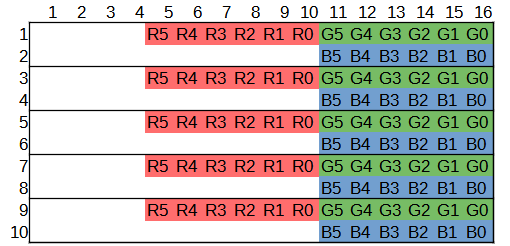
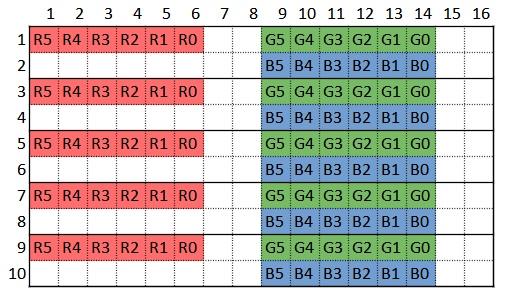
Change HUB75 pinmap, make RGB GPMC format fit to 24 bit RGB data

diff --git a/sw/opallios/opallios.c b/sw/opallios/opallios.c
@@ -61,8 +61,8 @@ int main(int argc, char *argv[])
 		
 		for (int i = 0; i < numPixels; i++)
 		{
-			(matrixData)[i*2] = (((uint8_t *)img.data)[i*4+1+currentFrame*numPixels*4] >> 2) << 8 | (((uint8_t *)img.data)[i*4+currentFrame*numPixels*4] >> 2);
-			(matrixData)[i*2+1] = (((uint8_t *)img.data)[i*4+2+currentFrame*numPixels*4] >> 2);
+			(matrixData)[i*2] = (((uint8_t *)img.data)[i*4+1+currentFrame*numPixels*4]) << 8 | (((uint8_t *)img.data)[i*4+currentFrame*numPixels*4]);
+			(matrixData)[i*2+1] = (((uint8_t *)img.data)[i*4+2+currentFrame*numPixels*4]);
 		}
 		currentFrame++;
 		if (currentFrame >= numFrames) currentFrame = 0;

diff --git a/Documentation/Description_Document.md b/Documentation/Description_Document.md
@@ -44,7 +44,7 @@ This project is to make a decorative RGB LED display. This will use a HUB75 inte
 
 3mm LED pitch, 192mmx192mm total size, 64x64 RGB LEDs.
 
-1/32 scan on a 64x64 grid array *probably* means that 2 rows of 64 are lit up at a time, indicates 2x 5-bit decoders for row decoding.
+1/32 scan on a 64x64 grid array means that 2 rows of 64 are lit up at a time, indicates 2x 5-bit decoders for row decoding.
 
 ## Power consumption:  
 
@@ -92,7 +92,7 @@ From 100MHz clock, will target 25MHz (divide by 4). Can go higher, but for anyth
 ### LED Matrix Frame Rate
 
 At 25MHz, clock period is 20ns.  
-The LED matrix functions as 2 separate halves, having 2 channels of rgb input data, and 2 rows of LEDs get illuminated at a time. Therefore for time calculations we can treat it as a 64x32 module.
+The LED matrix functions as 2 semi-separate halves, having 2 channels of rgb input data, and 2 rows of LEDs get illuminated at a time. Therefore for time calculations we can treat it as a 64x32 module.
 
 Because the LEDs are only on or off, I will be using binary coded modulation (BCM) to dim the brightness for the different values of our color.
 
@@ -126,14 +126,7 @@ To deal with these nasty refresh rate periods, there will be a frame rate timer 
 
 GPMC runs at 100MHz, so 10 ns clock period. GPMC has a 16-bit data bus, so assume one 16-bit register gets loaded in 1 clock cycle, and we are doing a continuous block write, so there should only be one start block of overhead.
 
-If tight packing is used, the 18 bytes of data are transferred in repeating blocks of 9 16-bit register writes, containing 8 sets of 18-bit LED RGB data. With this method, the full 73728 bit array data is sent in 512 blocks of 16 * 9 = 144 bits.  
-
-64 * 64 * 18 bits/LED = 73728 bits  
-73728/16 = 4608 clocks = 46080 ns  
-
-![Tight packed RGB data](./include/tight-packed-GPMC-data.png)
-
-With loose packing, the 18 bit RGB data will be broken into register pairs, one containing R and G data, and the other containing B data. this transfers the 18 bits in 2 16 bit register writes, so the transfer time would be.  
+The RGB data will be broken into a pair of registers per LED, with red and green data in one, and blue in the other. The 6 bits will be filled into the upper 6 lsb of 8 bit blocks, such that standard 8 bit per color RGB data can be written, with the 2 LSBs of each color ignored. This transfers the 18 bits in 2 16 bit register writes, so the transfer time would be.  
 
 64 * 64 LEDS * 2 clocks per LED = 8192 clocks = 81920 ns
 
@@ -148,6 +141,8 @@ The total minimum frame time is 5652480 ns, divide by 32 to get one row = 176640
 - once row 31 and 63 are being drawn, signal in a register to start loading in the next frame for all addresses except those for rows 31 and 63
 - finish drawing rows 31 and 63, start rows 0 & 32, flag this in a register
 - load in color data for rows 31 and 63
+
+Alternately, if the draw speed is sufficiently fast the eye wont notice the frame tearing or blended colors from writing in the middle of a frame, it doesn't matter.
 
 There is a 32MB SDRAM on the board, I can use this to either achieve 24 bit color, or double buffer the frames. I probably still need sync registers to only write here at certain times.
 
@@ -213,9 +208,18 @@ Clone Opallios repo
 git clone https://github.com/Matt-D-Smith/Opallios.git
 ```
 
-Install needed libraries
+Install needed libraries and gpu driver ## nah
 ```
-sudo apt install libasound2-dev mesa-common-dev libx11-dev libxrandr-dev libxi-dev xorg-dev libgl1-mesa-dev libglu1-mesa-dev libdrm-dev libegl1-mesa-dev libgles2-mesa-dev libgbm-dev
+#sudo apt install libasound2-dev mesa-common-dev libx11-dev libxrandr-dev libxi-dev xorg-dev libgl1-mesa-dev libglu1-mesa-dev libdrm-dev libegl1-mesa-dev libgles2-mesa-dev libgbm-dev
+#possibly needed
+sudo apt install ti-sgx-ti335x-modules-4.9.59-ti-rt-r73
+```
+
+
+Install needed libraries and gpu driver ## good
+```
+sudo apt install libdrm-dev libegl1-mesa-dev libgles2-mesa-dev libgbm-dev
+
 ```
 
 Clone, build, and install raylib
@@ -227,6 +231,47 @@ git checkout 4.2.0
 cd src
 make PLATFORM=PLATFORM_DRM
 sudo make install
+```
+
+To set up C debugging
+```
+sudo apt install gdb
+```
+
+
+
+create a file in /home/debian named `gdb`. Inside it put:
+```
+sudo /usr/bin/gdb "$@"
+```
+Direct the debugger miDebuggerPath in launch.json to this file.
+
+Allow gdb to run without a sudo password
+```
+sudo visudo
+# At the bottom of this file add
+sk ALL=NOPASSWD:/usr/bin/gdb
+```
+
+Raylib requires a display to create an OpenGL context, so... FIGURE THIS PART OUT STILL ITS NOT WORKING
+
+Raylib doesnt want to create a window without a window manager. I installed LXQT to set up X11 and associated requirements
+```
+sudo apt install lxqt-core lxqt-core task-lxqt-desktop
+```
+
+Add the following in `/etc/X11/xorg.conf` under the "Screen" section -- ACTUALLY DO THE NEXT THING INSTEAD
+```
+SubSection     "Display"
+    Virtual     1920 1080
+EndSubSection
+```
+
+To do software rendering with X server - does not use gpu
+```
+apt-get install xvfb
+Xvfb -shmem -screen 0 1280x1024x24 & export DISPLAY=:0 &
+export DISPLAY=:0
 ```
 
 ---
